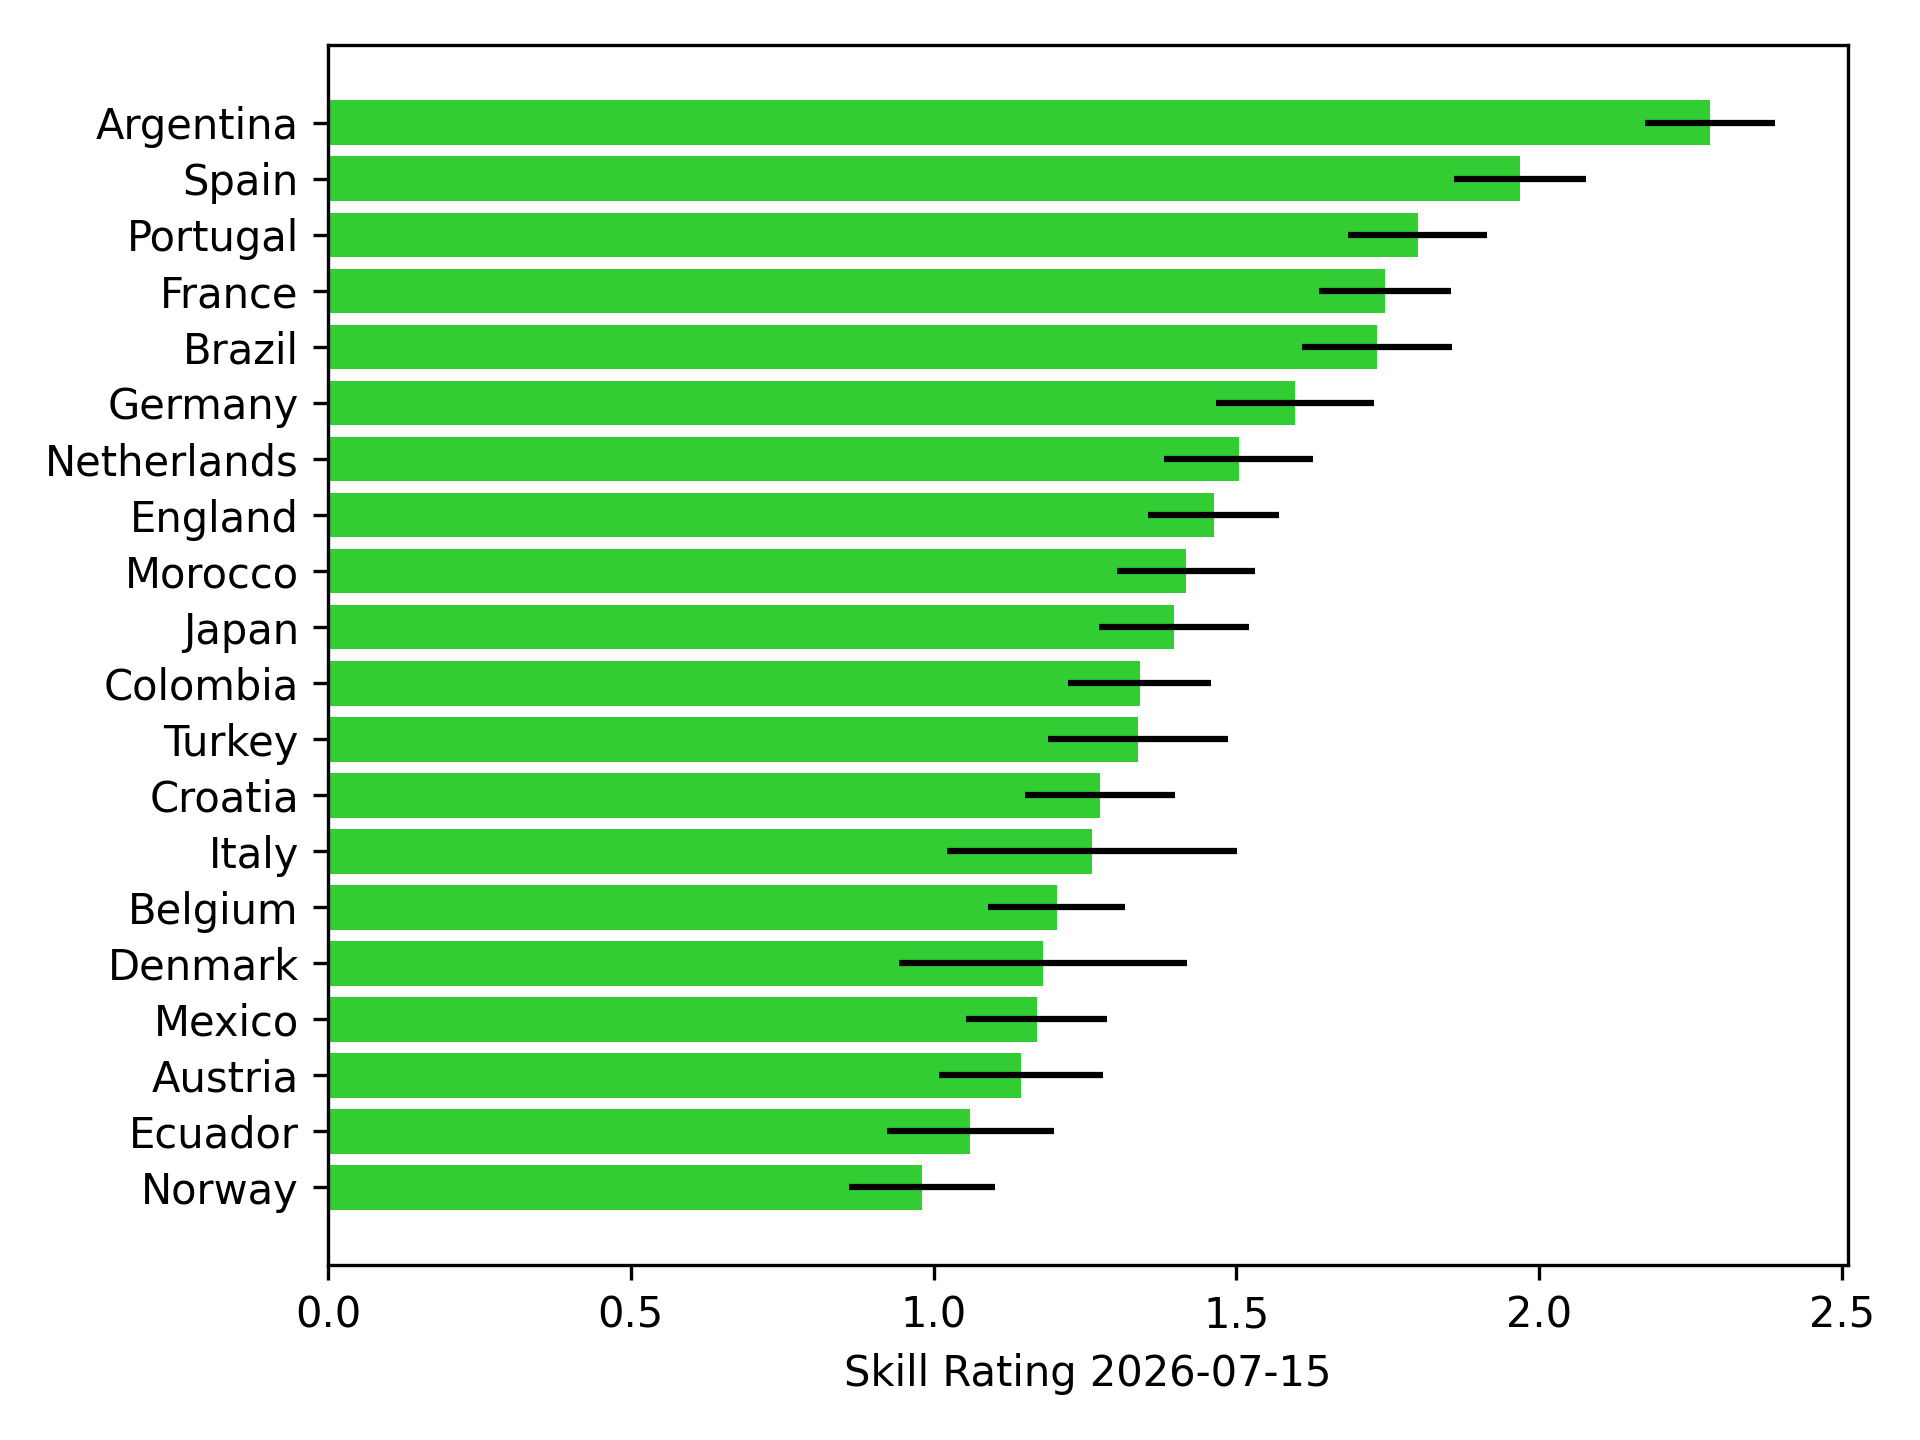
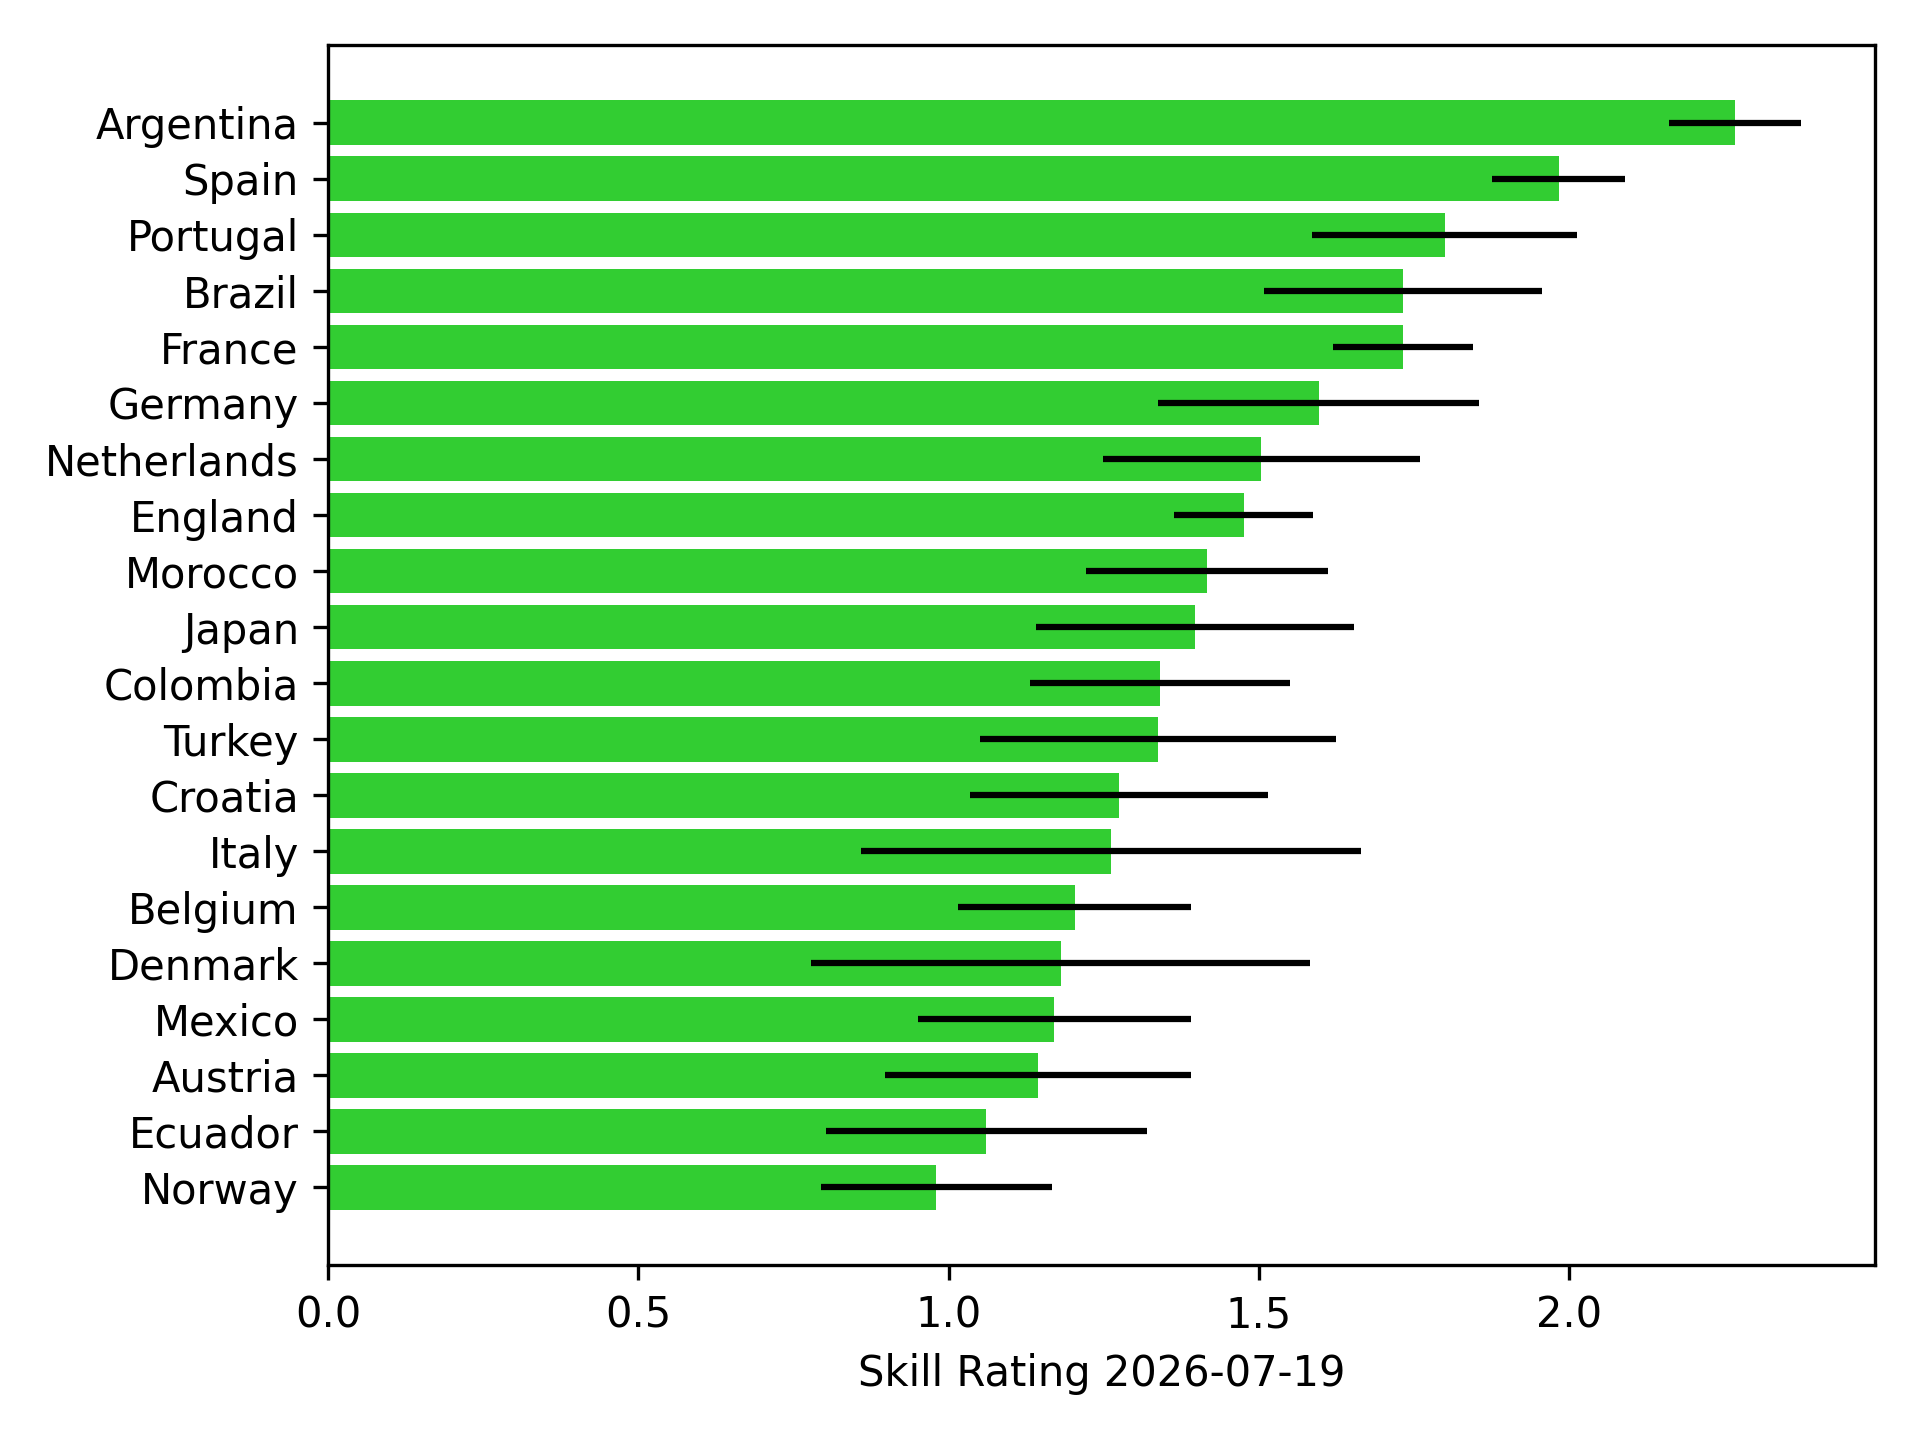
Update example with synchronize

diff --git a/cuthbert/factorial/filtering.py b/cuthbert/factorial/filtering.py
@@ -148,9 +148,11 @@ def synchronize(
     )
 
     # Make sure sync state has the same shape as original state
-    # I.e. log_normalising_constant should be shape (,) not (num_factors,)
+    # I.e. log_normalizing_constant should be shape (,) not (num_factors,)
     factorial_sync_state = tree.map(
-        _squeeze_sync_leaf, factorial_sync_state, factorial_state
+        _squeeze_sync_leaf,
+        factorial_sync_state,
+        factorial_state._replace(model_inputs=model_inputs),
     )
 
     return factorial_sync_state

diff --git a/docs/examples/factorial_football.md b/docs/examples/factorial_football.md
@@ -11,7 +11,7 @@ from typing import NamedTuple
 import matplotlib.pyplot as plt
 import pandas as pd
 import numpy as np
-from jax import Array, tree, vmap
+from jax import Array, tree
 from jax import numpy as jnp
 from jax.nn import sigmoid
 from jax.scipy.stats import norm
@@ -400,15 +400,13 @@ single_team_filter = taylor.build_filter(
         jnp.zeros(1),
     ),
 )
+
+sync_factorial_state = factorial.synchronize(
+    single_team_filter, factorializer, sync_data, final_factorial_state
+)
 ```
 
-
-TODO: Finish, test, clean up the above
-
-
 ## Ok so who are the best teams right now?
-
-
 
 Now that we've filtered the data, we can extract the mean and covariance of the
 filtered distribution which we can get from `filter_states.mean` and
@@ -417,11 +415,11 @@ filtered distribution which we can get from `filter_states.mean` and
 
 ??? quote "Code to extract and plot the latest filtered distribution"
     ```{.python #factorial-football-extract-filtered-distribution}
-    mean = final_factorial_state.mean[..., 0]
+    mean = sync_factorial_state.mean[..., 0]
     top_team_inds = jnp.argsort(mean)[-20:]
     top_team_names = [teams_id_to_name_dict[int(i)] for i in top_team_inds]
     top_team_means = mean[top_team_inds]
-    stds = jnp.abs(final_factorial_state.chol_cov[..., 0, 0])
+    stds = jnp.abs(sync_factorial_state.chol_cov[..., 0, 0])
     top_team_stds = stds[top_team_inds]
 
     plt.figure()
